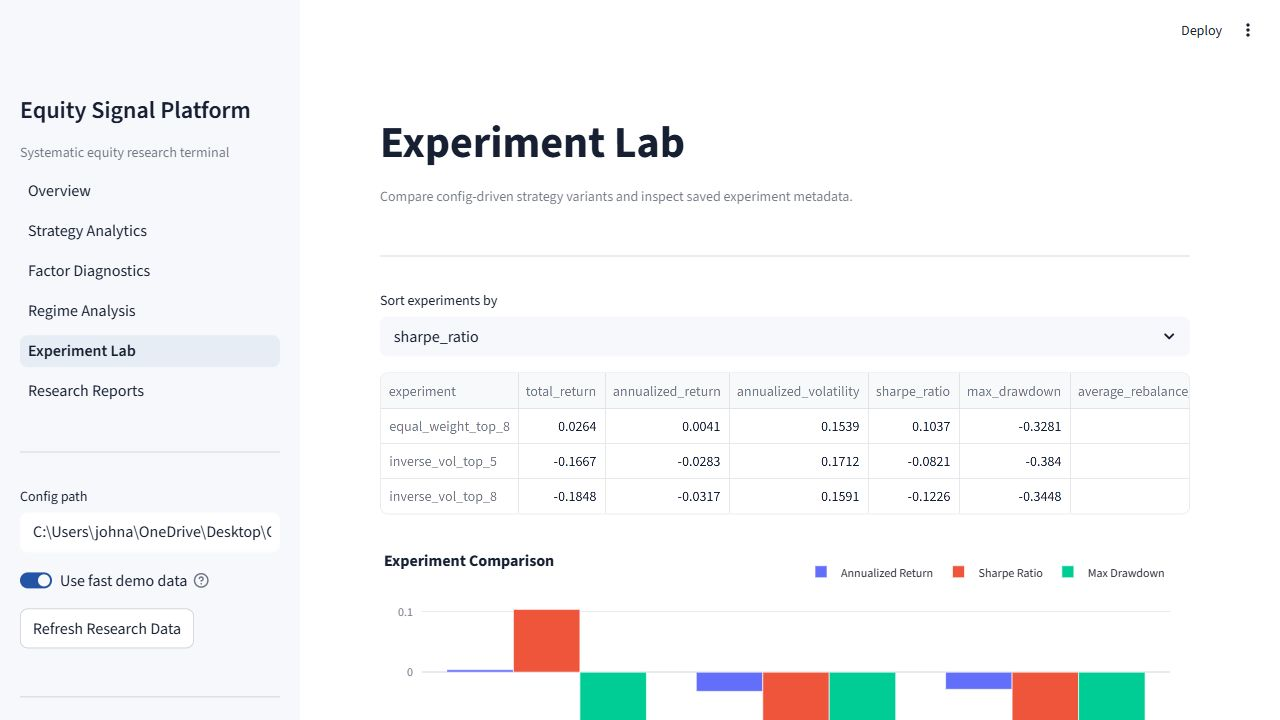
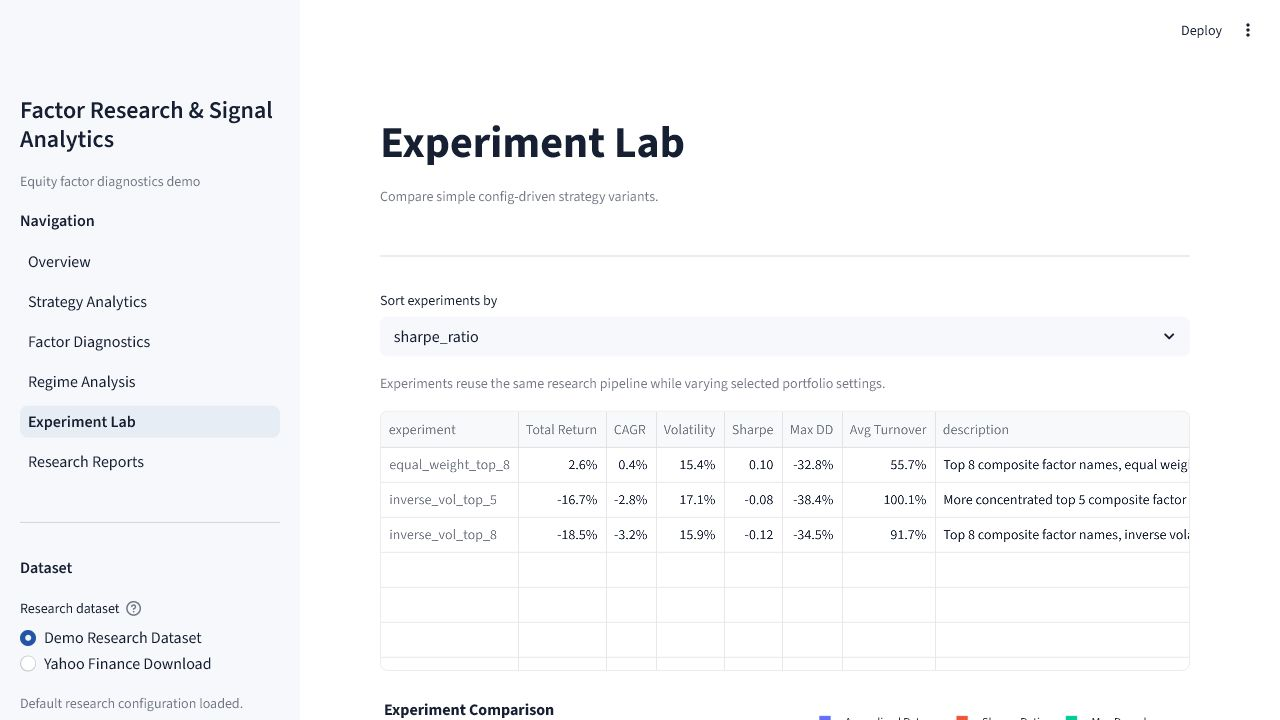
change name

diff --git a/streamlit_app/app.py b/streamlit_app/app.py
@@ -9,8 +9,8 @@ from dashboard.formatting import format_number, format_percent
 
 
 st.set_page_config(
-    page_title="Equity Signal Platform",
-    page_icon="ESP",
+    page_title="Factor Research & Signal Analytics Platform",
+    page_icon="FRSA",
     layout="wide",
     initial_sidebar_state="expanded",
 )
@@ -19,7 +19,7 @@ settings = render_sidebar()
 
 section_header(
     "Overview",
-    "A compact dashboard for systematic equity factor research, simulation backtests, and experiment comparison.",
+    "Interactive dashboard for evaluating equity factor signals, diagnostics, regime behavior, and experiment results.",
 )
 
 with st.spinner("Loading research context..."):
@@ -29,9 +29,9 @@ summary = context["summary"]
 experiment_comparison = context["experiment_comparison"]
 
 st.markdown(
-    "Systematic equity research studies rules-based signals across a stock universe. "
-    "This demo shows a simulated long-only factor strategy, diagnostics for the underlying signals, "
-    "and comparisons across simple experiment settings."
+    "Factor research studies rules-based signals across an equity universe. "
+    "This demo focuses on signal quality, regime behavior, and experiment diagnostics, "
+    "with simulated portfolio results used as context for evaluating the signals."
 )
 
 metric_cols = st.columns(3)

diff --git a/streamlit_app/pages/5_Research_Reports.py b/streamlit_app/pages/5_Research_Reports.py
@@ -29,7 +29,7 @@ def download_frame(label: str, filename: str, frame: pd.DataFrame | pd.Series) -
     )
 
 
-st.set_page_config(page_title="Research Reports | ESP", page_icon="ESP", layout="wide")
+st.set_page_config(page_title="Research Reports | FRSA", page_icon="FRSA", layout="wide")
 settings = render_sidebar()
 
 section_header("Research Reports", "Download current research outputs and review generated artifacts.")
@@ -118,4 +118,3 @@ else:
 
     if not image_files and not csv_files and not (REPORTS_DIR / "experiments").exists():
         st.info("No saved report artifacts found.")
-

diff --git a/streamlit_app/pages/1_Strategy_Analytics.py b/streamlit_app/pages/1_Strategy_Analytics.py
@@ -13,7 +13,7 @@ from dashboard.data import load_research_context
 from dashboard.formatting import format_number, format_percent
 
 
-st.set_page_config(page_title="Strategy Analytics | ESP", page_icon="ESP", layout="wide")
+st.set_page_config(page_title="Strategy Analytics | FRSA", page_icon="FRSA", layout="wide")
 settings = render_sidebar()
 
 section_header("Strategy Analytics", "Rolling performance diagnostics, turnover, returns, and benchmark exposure.")

diff --git a/streamlit_app/pages/2_Factor_Diagnostics.py b/streamlit_app/pages/2_Factor_Diagnostics.py
@@ -12,7 +12,7 @@ from dashboard.components import render_sidebar, section_header
 from dashboard.data import load_research_context
 
 
-st.set_page_config(page_title="Factor Diagnostics | ESP", page_icon="ESP", layout="wide")
+st.set_page_config(page_title="Factor Diagnostics | FRSA", page_icon="FRSA", layout="wide")
 settings = render_sidebar()
 
 section_header("Factor Diagnostics", "Cross-sectional signal quality, decay, persistence, and dispersion.")

diff --git a/streamlit_app/pages/3_Regime_Analysis.py b/streamlit_app/pages/3_Regime_Analysis.py
@@ -12,7 +12,7 @@ from dashboard.components import render_sidebar, section_header
 from dashboard.data import load_research_context
 
 
-st.set_page_config(page_title="Regime Analysis | ESP", page_icon="ESP", layout="wide")
+st.set_page_config(page_title="Regime Analysis | FRSA", page_icon="FRSA", layout="wide")
 settings = render_sidebar()
 
 section_header("Regime Analysis", "Performance across benchmark trend and volatility environments.")

diff --git a/streamlit_app/pages/4_Experiment_Lab.py b/streamlit_app/pages/4_Experiment_Lab.py
@@ -14,7 +14,7 @@ from dashboard.components import render_sidebar, section_header
 from dashboard.data import load_research_context
 
 
-st.set_page_config(page_title="Experiment Lab | ESP", page_icon="ESP", layout="wide")
+st.set_page_config(page_title="Experiment Lab | FRSA", page_icon="FRSA", layout="wide")
 settings = render_sidebar()
 
 section_header("Experiment Lab", "Compare simple config-driven strategy variants.")

diff --git a/streamlit_app/dashboard/components.py b/streamlit_app/dashboard/components.py
@@ -14,8 +14,8 @@ class DashboardSettings:
 
 
 def render_sidebar() -> DashboardSettings:
-    st.sidebar.title("Equity Signal Platform")
-    st.sidebar.caption("Systematic equity research demo")
+    st.sidebar.title("Factor Research & Signal Analytics")
+    st.sidebar.caption("Equity factor diagnostics demo")
 
     st.sidebar.markdown("**Navigation**")
     st.sidebar.page_link("app.py", label="Overview")

diff --git a/README.md b/README.md
@@ -1,8 +1,8 @@
-# Equity Signal Platform
+# Factor Research & Signal Analytics Platform
 
-A Python research project for studying simple cross-sectional equity factor signals, running simulation backtests, comparing experiments, and presenting results in a Streamlit dashboard.
+Interactive dashboard for evaluating equity factor signals, diagnostics, regime behavior, and experiment results.
 
-This project is built for portfolio review and quant internship recruiting. It is intentionally readable and modest in scope: the goal is to show a defensible research workflow, not to present production trading infrastructure or claim predictive performance.
+This project is built for portfolio review and quant internship recruiting. It is intentionally readable and modest in scope: the goal is to show a defensible signal research workflow, not to present production trading infrastructure or claim predictive performance.
 
 ## Disclaimer
 
@@ -15,14 +15,14 @@ This repository is for education and research demonstration only. It is not inve
 - Optional synthetic demo data for fast dashboard previews
 - Momentum, volatility, trend, and mean reversion factor signals
 - Equal-weight and inverse-volatility portfolio construction
-- Monthly rebalance simulation with transaction cost and slippage assumptions
+- Monthly rebalance simulation used to evaluate signal behavior with transaction cost and slippage assumptions
 - Walk-forward train/test evaluation using historical information coefficients
 - SPY-based bull/bear and high/low volatility regime analysis
 - Rolling Sharpe, volatility, drawdown, returns, and turnover
 - Factor diagnostics: information coefficient, hit rate, decay, persistence, and dispersion
 - CAPM regression against a benchmark return series
 - Lightweight config-driven experiment runner
-- Multipage Streamlit dashboard with report downloads
+- Multipage Streamlit dashboard for signal diagnostics and report downloads
 - Focused pytest coverage for core calculations
 
 ## Architecture
@@ -49,7 +49,7 @@ The code is organized around a simple research pipeline:
 2. Load either Yahoo Finance prices or deterministic demo prices.
 3. Compute factor signals from historical prices.
 4. Construct long-only portfolios at monthly rebalance dates.
-5. Simulate returns with cost and slippage assumptions.
+5. Simulate returns with cost and slippage assumptions to contextualize signal behavior.
 6. Evaluate performance, factor diagnostics, regimes, regressions, and experiments.
 7. Present results through the dashboard and saved report artifacts.
 
